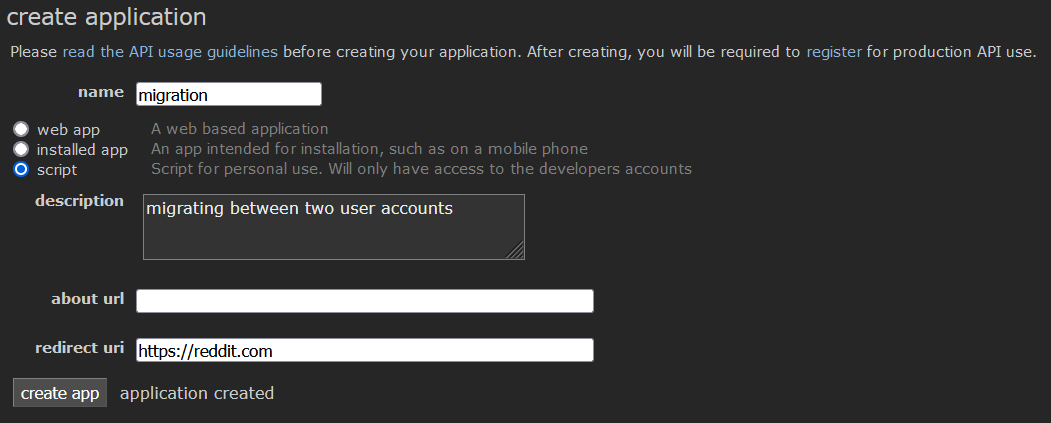
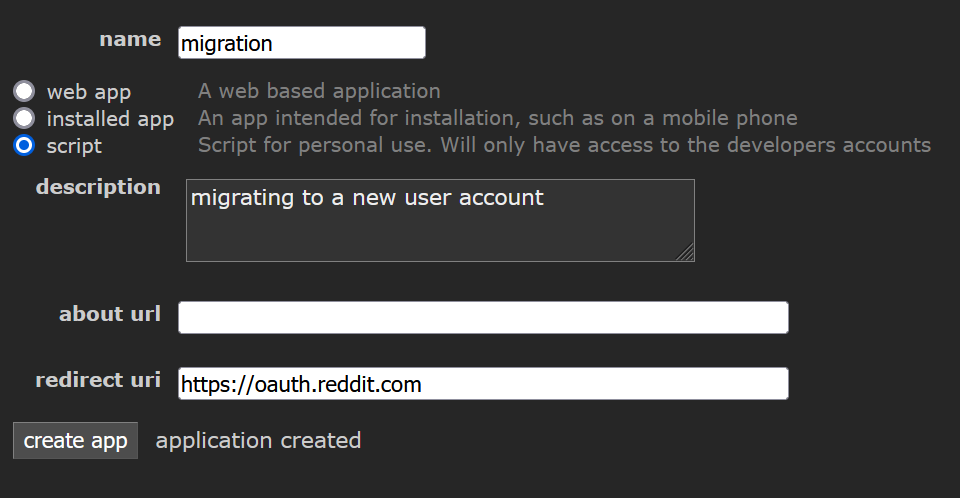
working

Changed region(s): [[0.0, 0.0, 1.0, 0.5532], [0.0, 0.5839, 0.8438, 0.9835]]

diff --git a/main.py b/main.py
@@ -1,23 +1,37 @@
 # Adapted from leemi's migratereddit.py on GitHub Gist (https://gist.github.com/leemi/e36e8c056aff7990baad28de6e7458d1)
+# Old version was in Pythohn 2 and was using an out-dated version of praw
 
 import praw
+from prawcore.exceptions import Forbidden
 import settings 	# Reddit account info in settings.py
 
 # Load account info
 old_account, new_account = settings.reddit_init()
 
-old_account.login()
-new_account.login()
-
 # Remove default subreddits
-for sub in new_account.get_my_subreddits(limit=None):
+for sub in new_account.user.subreddits(limit=None):
 	sub.unsubscribe()
 
-# Copy Subreddits
-for sub in old_account.get_my_subreddits(limit=None):
-	new_account.get_subreddit(sub.display_name).subscribe()
+num_subs_old_account = 0
 
-# Copy Saved
-for article in old_account.user.get_saved(sort="new", time="all", limit=None):
-	article.reddit_session = new_account
-	article.save()
+# Copy Subreddits
+for sub in old_account.user.subreddits(limit=None):
+	num_subs_old_account = num_subs_old_account + 1
+	try:
+		new_account.subreddit(sub.display_name).subscribe()
+		print("|", end="")	# Progress bar
+	except Forbidden: 
+		# Usually occurs for user accounts that the account is following (u_username)
+		print("Forbidden from subscribing to subreddit: " + sub.display_name)
+
+# Sanity check
+num_subs_new_account = 0
+for sub in new_account.user.subreddits(limit=None):
+	num_subs_new_account = num_subs_new_account + 1
+print("Number of subscribed subreddits for old account: " + str(num_subs_old_account))
+print("Number of subscribed subreddits for new account: " + str(num_subs_new_account))
+
+# # Copy Saved
+# for article in old_account.user.get_saved(sort="new", time="all", limit=None):
+# 	article.reddit_session = new_account
+# 	article.save()

diff --git a/settings.py b/settings.py
@@ -10,7 +10,7 @@ def reddit_init():
         username = "",
         password = "",
     )
-    
+
     new_account = praw.Reddit(
         client_id = "",
         client_secret = "",
@@ -18,6 +18,5 @@ def reddit_init():
         username = "",
         password = "",
     )
-
 
     return old_account, new_account

diff --git a/README.md b/README.md
@@ -21,5 +21,5 @@ Collect the necessary information - Client ID, Client Secret, User Agent, and th
 2. Click on the 'are you a developer? create an app...' button.
 !['are you a developer? create an app...' button](https://github.com/erin-bristow/reddit-account-migration/blob/main/img/dev_button.PNG)
 3. Fill in the info.
-![name, script, description, and redirect uri (can just be https://reddit.com)](https://github.com/erin-bristow/reddit-account-migration/blob/main/img/create_app.PNG)
+![name, script, description, and redirect uri (should be https://oauth.reddit.com)](https://github.com/erin-bristow/reddit-account-migration/blob/main/img/create_app.PNG)
 4. Use the provided info. The client ID is at least a 14-character string listed just under “personal use script” for the desired developed application. The client secret is at least a 27-character string listed next to "secret" for the application. For user_agent, write something descriptive like "Migrating between two user accounts by /u/myusernamehere". 
